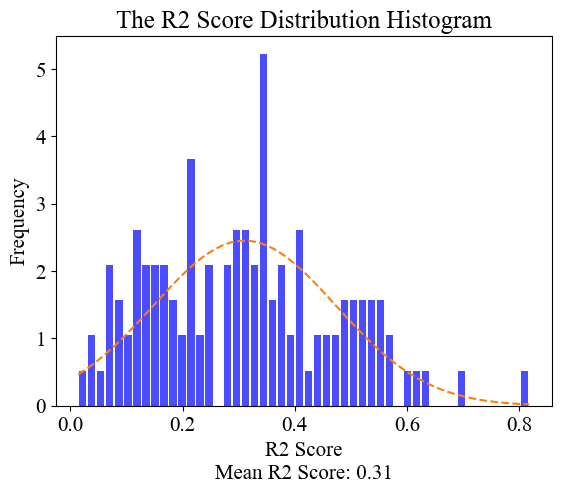
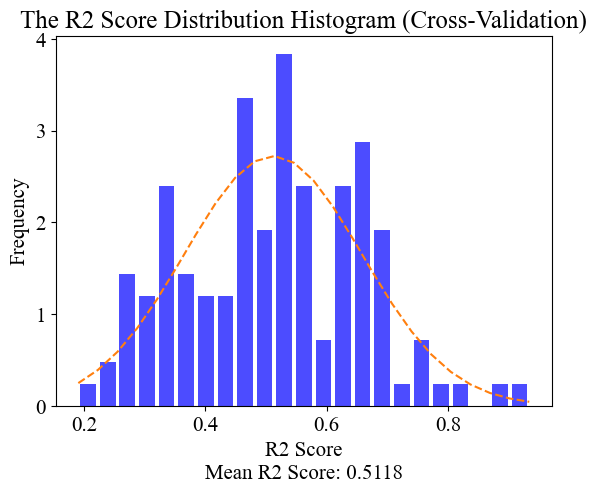
update the select best among all rooms.

Changed region(s): [[0.0, 0.0, 1.0, 0.9717]]

diff --git a/training_xgboost_model_hyperopt.py b/training_xgboost_model_hyperopt.py
@@ -17,6 +17,7 @@ from imblearn.over_sampling import SMOTE
 from numpy.random import RandomState
 from sklearn.metrics import r2_score, mean_squared_error
 from sklearn.model_selection import train_test_split
+from sklearn.utils import compute_sample_weight
 from tqdm import tqdm
 from xgboost import DMatrix, cv
 
@@ -26,7 +27,10 @@ parser.add_argument("--metric", choices=['R2', 'RMSE'], type=str, required=False
                     help="The evaluation metric you want to use to train the XGBoost model")
 parser.add_argument("--log", choices=[0, 1, 100], type=int, required=False, default=0,
                     help="Whether to print out the training progress")
-parser.add_argument("--SMOTE", choices=[0, 1], type=int, required=False, default=1, help="Whether use the SMOTE or not")
+parser.add_argument("--SMOTE", choices=[0, 1], type=int, required=False, default=0, help="Whether use the SMOTE or not")
+parser.add_argument("--SMOGN", choices=[0, 1], type=int, required=False, default=1, help="Whether use the SMOGN or not")
+parser.add_argument("--SampleWeight", choices=[0, 1], type=int, required=False, default=0,
+                    help="Whether use the sample weight")
 args = parser.parse_args()
 
 # Ignore all the warnings and set pandas to display every column and row everytime we print a dataframe
@@ -34,14 +38,22 @@ warnings.filterwarnings('ignore')
 pd.set_option('display.max_columns', None)
 pd.set_option('display.max_rows', None)
 
+assert args.SMOTE != args.SMOGN, "Can't use SMOTE and SMOGN at the same time!"
+
 # Load the data with a positive AC electricity consumption value, and drop the time data as we don't need them
 data = pd.read_csv("summer_data_compiled.csv", index_col=0)
 data = data[data.AC > 0].drop(['Time', 'Date', 'Hour'], axis=1).reset_index(drop=True)
 
 # Create some directory to store the models and future analysis figures.
 # log_folder_name = "Test_{}_{}".format(args.metric, datetime.now().strftime("%Y_%m_%d_%H_%M_%S"))
-log_folder_name = "Test_R2_HYPEROPT_v12"
-previous_parameter_folder = "Test_R2_HYPEROPT_v11"
+log_folder_name = "Test_R2_HYPEROPT"
+log_folder_name = log_folder_name + "_SMOTE" if args.SMOTE else log_folder_name
+log_folder_name = log_folder_name + "_SMOGN" if args.SMOGN else log_folder_name
+log_folder_name = log_folder_name + "_SW" if args.SampleWeight else log_folder_name
+
+previous_parameter_folder = "Test_R2_HYPEROPT"
+
+assert log_folder_name != previous_parameter_folder, "Previous folder name exists"
 
 if not os.path.exists('./{}/'.format(log_folder_name)):
     os.mkdir('./{}'.format(log_folder_name))
@@ -102,19 +114,50 @@ for room in tqdm(room_list):
     # We extract the data of particular room and run the SMOTE algorithm on it.
     room_data = data[data.Location == room].drop(['Location'], axis=1).reset_index(drop=True)
 
-    y = pd.DataFrame(room_data['AC'].fillna(method='pad'))
-    X = room_data.drop(['AC'], axis=1).fillna(method='pad')
+    if args.SMOTE:
+        # Label all the AC data by 0.75, all AC above 0.75 will be marked as 1, otherwise 0. Split into X and y
+        room_data['SMOTE_split'] = (room_data['AC'] > 0.75).astype('int')
+        X = room_data.drop(['SMOTE_split'], axis=1)
+        y = room_data['SMOTE_split']
+
+        # Run the SMOTE algorithm and retrieve the result.
+        model_smote = SMOTE(random_state=621, k_neighbors=3)
+        room_data_smote, smote_split = model_smote.fit_resample(X, y)
+
+        # concat the result from SMOTE and split the result into X and y for training.
+        room_data_smote = pd.concat([room_data_smote, smote_split], axis=1)
+        y = room_data_smote['AC']
+        X = room_data_smote.drop(['AC', 'SMOTE_split'], axis=1)
+    elif args.SMOGN:
+        if len(room_data) < 500:
+            room_data['SMOTE_split'] = (room_data['AC'] > 0.75).astype('int')
+            X = room_data.drop(['SMOTE_split'], axis=1)
+            y = room_data['SMOTE_split']
+
+            # Run the SMOTE algorithm and retrieve the result.
+            model_smote = SMOTE(random_state=621, k_neighbors=3)
+            room_data_smote, smote_split = model_smote.fit_resample(X, y)
+
+            # concat the result from SMOTE and split the result into X and y for training.
+            room_data_smote = pd.concat([room_data_smote, smote_split], axis=1)
+            y = room_data_smote['AC']
+            X = room_data_smote.drop(['AC', 'SMOTE_split'], axis=1)
+        else:
+            room_data = pd.read_csv('./SMOGN_processed/{}.csv'.format(room), index_col=0)
+            y = room_data['AC']
+            X = room_data.drop(['AC'], axis=1)
+    else:
+        y = pd.DataFrame(room_data['AC'].fillna(method='pad'))
+        X = room_data.drop(['AC'], axis=1).fillna(method='pad')
+
+    if args.SampleWeight:
+        class_sample = pd.cut(y, bins=15)
+        weight = compute_sample_weight(class_weight="balanced", y=class_sample)
+
     X = X.to_numpy()
 
-    if args.SMOTE:
-        sampler = SMOTE(random_state=621)
-        re_X, re_Y = sampler.fit_sample(X, y)
-        print(len(X), len(re_X))
-        X = re_X
-        y = re_Y
-
     # Build another full data matrix for the built-in cross validation function to work.
-    data_matrix = DMatrix(data=X, label=y)
+    data_matrix = DMatrix(data=X, label=y, weight=weight) if args.SampleWeight else DMatrix(data=X, label=y)
 
     # Cross_validation with hyper-parameter tuning
     space = {'max_depth': hp.quniform("max_depth", 3, 10, 1),

diff --git a/Select_the_best_model.py b/Select_the_best_model.py
@@ -1,0 +1,35 @@
+import os
+from shutil import copy
+
+import pandas as pd
+from tqdm import trange
+
+folder_name = "Test_R2_Best_Among_SMOTE_SMOGN"
+if not os.path.exists('./{}/'.format(folder_name)):
+    os.mkdir('./{}/'.format(folder_name))
+    os.mkdir('./{}/models/'.format(folder_name))
+    os.mkdir('./{}/trntst_models/'.format(folder_name))
+SMOTE = pd.read_csv('./Test_R2_HYPEROPT_SMOTE/error.csv', index_col=None)
+SMOGN = pd.read_csv('./Test_R2_HYPEROPT_SMOGN/error.csv', index_col=None)
+SMOTE_prediction = pd.read_csv('./Test_R2_HYPEROPT_SMOTE/prediction.csv', index_col=None)
+SMOGN_prediction = pd.read_csv('./Test_R2_HYPEROPT_SMOGN/prediction.csv', index_col=None)
+error = pd.DataFrame(columns=list(SMOTE))
+prediction = pd.DataFrame(columns=list(SMOTE_prediction))
+
+for i in trange(len(SMOTE)):
+    if SMOTE.loc[i, 'test-R2-mean'] < SMOGN.loc[i, 'test-R2-mean']:
+        error = error.append(SMOGN.loc[i], ignore_index=True)
+        prediction = prediction.append(SMOGN_prediction.loc[i], ignore_index=True)
+        copy('./Test_R2_HYPEROPT_SMOGN/models/{}.pickle.bat'.format(int(SMOGN.loc[i, 'room'])),
+             './{}/models/'.format(folder_name))
+        copy('./Test_R2_HYPEROPT_SMOGN/trntst_models/{}.pickle.bat'.format(int(SMOGN.loc[i, 'room'])),
+             './{}/trntst_models/'.format(folder_name))
+    else:
+        error = error.append(SMOTE.loc[i], ignore_index=True)
+        prediction = prediction.append(SMOTE_prediction.loc[i], ignore_index=True)
+        copy('./Test_R2_HYPEROPT_SMOTE/models/{}.pickle.bat'.format(int(SMOTE.loc[i, 'room'])),
+             './{}/models/'.format(folder_name))
+        copy('./Test_R2_HYPEROPT_SMOTE/trntst_models/{}.pickle.bat'.format(int(SMOTE.loc[i, 'room'])),
+             './{}/trntst_models/'.format(folder_name))
+error.to_csv('./{}/error.csv'.format(folder_name), index=False)
+prediction.to_csv('./{}/prediction.csv'.format(folder_name), index=False)

diff --git a/prediction_processing_hyperopt.py b/prediction_processing_hyperopt.py
@@ -20,7 +20,7 @@ from sklearn.metrics import r2_score, mean_squared_error
 from tqdm import tqdm
 from xgboost import DMatrix
 
-folder_name = 'Test_R2_HYPEROPT_v11'
+folder_name = 'Test_R2_Best_Among_SMOTE_SMOGN'
 
 # Ignore the warnings, let pandas print the full message and do some overall settings for matplotlib.
 warnings.filterwarnings('ignore')
@@ -156,7 +156,7 @@ def plot_error_distribution(bin=20):
     y = ((1 / (np.sqrt(2 * np.pi) * r2_std)) *
          np.exp(-0.5 * (1 / r2_std * (r2_bins - r2_mean)) ** 2))
     ax.plot(r2_bins, y, '--')
-    plt.xlabel("R2 Score\nMean R2 Score: {}".format(round(mean(r2_list), 2)))
+    plt.xlabel("R2 Score\nMean R2 Score: {}".format(round(mean(r2_list), 4)))
     plt.ylabel("Frequency")
     plt.title("The R2 Score Distribution Histogram (Cross-Validation)")
     plt.savefig('./{}/R2Dis_CV_bin{}.png'.format(folder_name, bin), bbox_inches='tight')
@@ -185,7 +185,7 @@ def plot_error_distribution(bin=20):
         y = ((1 / (np.sqrt(2 * np.pi) * r2_std)) *
              np.exp(-0.5 * (1 / r2_std * (r2_bins - r2_mean)) ** 2))
         ax.plot(r2_bins, y, '--')
-        plt.xlabel("R2 Score\nMean R2 Score: {}".format(round(mean(trntst_r2_list), 2)))
+        plt.xlabel("R2 Score\nMean R2 Score: {}".format(round(mean(trntst_r2_list), 4)))
         plt.ylabel("Frequency")
         plt.title("The R2 Score Distribution Histogram (Trained on 80% data)")
         plt.savefig('./{}/R2Dis_trntst_bin{}.png'.format(folder_name, bin), bbox_inches='tight')

diff --git a/room_comparison_plotting.py b/room_comparison_plotting.py
@@ -10,7 +10,7 @@ warnings.filterwarnings('ignore')
 
 # Read the original data
 data = pd.read_csv('./summer_data_compiled.csv')
-data = data[data.AC > 0]
+data = data[(data.AC > 0) & (data.Prev_1hr)]
 
 room_split = pd.read_csv('./room_classification.csv', index_col=None)
 
@@ -58,4 +58,3 @@ plt.legend()
 plt.xlabel("Hourly AC Electricity Consumption/kWh")
 plt.ylabel("Kernel Density")
 plt.show()
-# plt.savefig('./demo/Room_dis.png', bbox_inches='tight')
